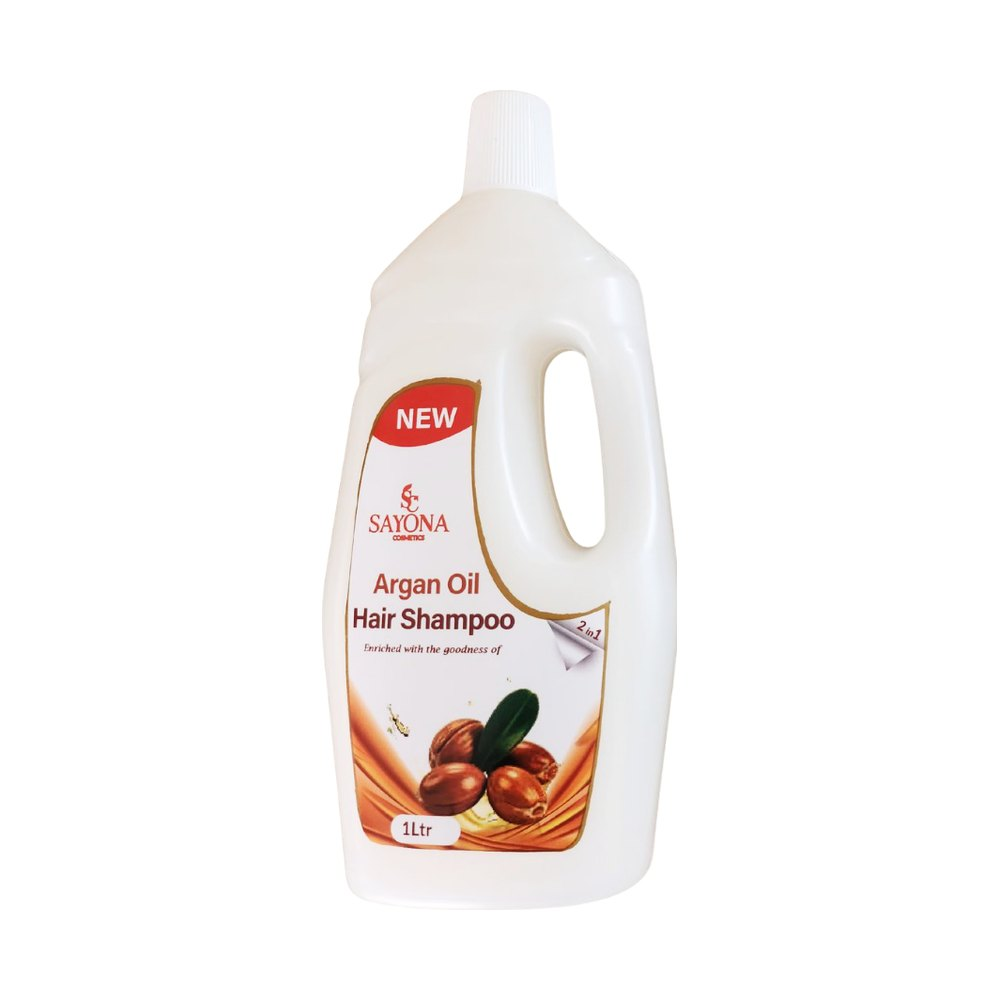
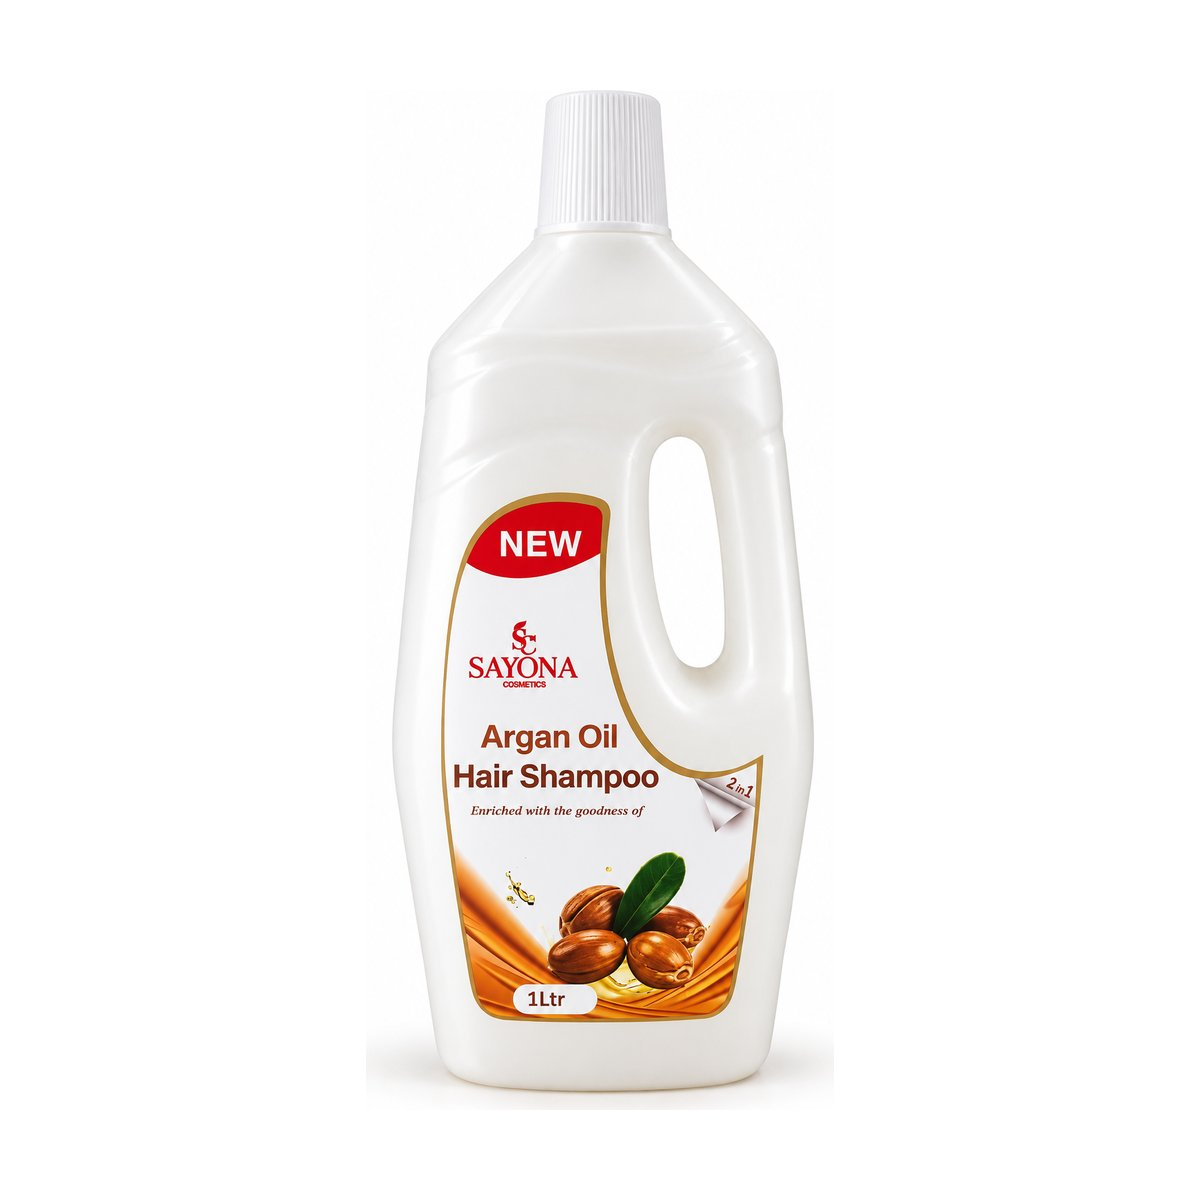
High-resolution packshots for every photographed size
- 23 new studio packshots (1200x1200) mapped to their exact sizes, incl. 5 ltr shampoo/conditioner, 60/120 ml leave-in, hair food, pomade and wax sizes
- Sharp "All sizes" range photos rebuilt from the new packshots (also used as fallback for unphotographed sizes)
- Kit photos and social share image refreshed

Claude-Session: https://claude.ai/code/session_012aUwVNySX9bc4vxdfX5zyF

Changed region(s): [[0.31, 0.062, 0.682, 0.93], [0.62, 0.31, 0.651, 0.341]]

diff --git a/src/data/products.js b/src/data/products.js
@@ -19,7 +19,7 @@ export const FALLBACK_PRODUCTS = [
       { size: "250 ml", price: 199, image: "/product-images/argan-shampoo-250ml.jpg" },
       { size: "500 ml", price: 349, image: "/product-images/argan-shampoo-500ml.jpg" },
       { size: "1 ltr", price: 449, image: "/product-images/argan-shampoo-1l.jpg" },
-      { size: "5 ltr", price: 899 }
+      { size: "5 ltr", price: 899, image: "/product-images/argan-shampoo-5l.jpg" }
     ]
   },
   {
@@ -42,9 +42,9 @@ export const FALLBACK_PRODUCTS = [
   },
   {
     id: "coconut-conditioner",
-    defaultSize: 1,
+    defaultSize: 2,
     groupImage: "/product-images/coconut-conditioner.jpg",
-    image: "/product-images/coconut-conditioner-500ml.jpg",
+    image: "/product-images/coconut-conditioner-1l.jpg",
     title: "Coconut Oil Hair Conditioner",
     category: "shampoo-conditioner",
     desc: "Sayona Hair Coconut Oil Moisture Boost Hair Conditioner — conditions to restore moisture. Formulated with Coconut Oil–derived fatty acids, this rich conditioner helps prevent breakage, restore elasticity, and deeply hydrate dry or damaged hair. Its creamy formula detangles, improves softness and manageability, and leaves hair silky, shiny, and healthier.",
@@ -54,8 +54,8 @@ export const FALLBACK_PRODUCTS = [
     sizes: [
       { size: "250 ml", price: 219, image: "/product-images/coconut-conditioner-250ml.jpg" },
       { size: "500 ml", price: 379, image: "/product-images/coconut-conditioner-500ml.jpg" },
-      { size: "1 ltr", price: 499 },
-      { size: "5 ltr", price: 1099 }
+      { size: "1 ltr", price: 499, image: "/product-images/coconut-conditioner-1l.jpg" },
+      { size: "5 ltr", price: 1099, image: "/product-images/coconut-conditioner-5l.jpg" }
     ]
   },
   {
@@ -71,7 +71,7 @@ export const FALLBACK_PRODUCTS = [
     tag: "ESSENTIAL",
     sizes: [
       { size: "60 ml", price: 149, image: "/product-images/olive-leave-in-60ml.jpg" },
-      { size: "120 ml", price: 249 },
+      { size: "120 ml", price: 249, image: "/product-images/olive-leave-in-120ml.jpg" },
       { size: "250 ml", price: 499 },
       { size: "500 ml", price: 699, image: "/product-images/olive-leave-in-500ml.jpg" },
       { size: "1 ltr", price: 999, image: "/product-images/olive-leave-in-1l.jpg" }
@@ -80,7 +80,8 @@ export const FALLBACK_PRODUCTS = [
   {
     id: "indian-hemp-pomade",
     defaultSize: 2,
-    image: "/product-images/indian-hemp-pomade.jpg",
+    groupImage: "/product-images/indian-hemp-pomade.jpg",
+    image: "/product-images/indian-hemp-pomade-250ml.jpg",
     title: "Indian Hemp Anti-Dandruff Pomade",
     category: "styling",
     desc: "Indian Hemp based anti-dandruff pomade — a Dry & Itchy Scalp Glossifier for sensitive and itchy scalps. Enriched with medicinal herbs, vitamins, Argan, Castor, Coconut and Tea Tree oils, with Eucalyptus and Peppermint essentials. Specially formulated to target the root cause of dandruff. Soothing & cooling formula with Mint Oil.",
@@ -89,16 +90,17 @@ export const FALLBACK_PRODUCTS = [
     tag: "HOT",
     sizes: [
       { size: "60 ml", price: 149 },
-      { size: "120 ml", price: 249 },
-      { size: "250 ml", price: 479 },
-      { size: "500 ml", price: 699 },
+      { size: "120 ml", price: 249, image: "/product-images/indian-hemp-pomade-120ml.jpg" },
+      { size: "250 ml", price: 479, image: "/product-images/indian-hemp-pomade-250ml.jpg" },
+      { size: "500 ml", price: 699, image: "/product-images/indian-hemp-pomade-500ml.jpg" },
       { size: "600 ml", price: 749 }
     ]
   },
   {
     id: "argan-hair-food",
     defaultSize: 2,
-    image: "/product-images/argan-hair-food.jpg",
+    groupImage: "/product-images/argan-hair-food.jpg",
+    image: "/product-images/argan-hair-food-250ml.jpg",
     title: "Argan Oil Hair Food",
     category: "styling",
     desc: "Nourish and strengthen. Argan oil is known for its ability to help hair restore, enhance, and grow. Its natural moisturizers help repair damage from blow-drying and flat ironing.",
@@ -106,17 +108,18 @@ export const FALLBACK_PRODUCTS = [
     usage: "Apply directly to hair shafts and scalp. Massage gently. Ideal for use before styling or as a daily moisture sealant.",
     tag: "DAILY WEAR",
     sizes: [
-      { size: "60 ml", price: 149 },
-      { size: "120 ml", price: 249 },
-      { size: "250 ml", price: 479 },
-      { size: "500 ml", price: 699 },
+      { size: "60 ml", price: 149, image: "/product-images/argan-hair-food-60ml.jpg" },
+      { size: "120 ml", price: 249, image: "/product-images/argan-hair-food-120ml.jpg" },
+      { size: "250 ml", price: 479, image: "/product-images/argan-hair-food-250ml.jpg" },
+      { size: "500 ml", price: 699, image: "/product-images/argan-hair-food-500ml.jpg" },
       { size: "600 ml", price: 749 }
     ]
   },
   {
     id: "dreadlock-wax",
     defaultSize: 2,
-    image: "/product-images/dreadlock-wax.jpg",
+    groupImage: "/product-images/dreadlock-wax.jpg",
+    image: "/product-images/dreadlock-wax-250ml.jpg",
     title: "Extra Hold Dreadlock Wax",
     category: "styling",
     desc: "Sayona Extra Hold Dreadlock Wax is a non-flaking formula crafted with precision. Our dreadlock gel wax is designed to meet the unique needs of those with dreadlocks.",
@@ -125,10 +128,10 @@ export const FALLBACK_PRODUCTS = [
     tag: "PROFESSIONAL",
     sizes: [
       { size: "60 ml", price: 249 },
-      { size: "120 ml", price: 399 },
-      { size: "250 ml", price: 749 },
+      { size: "120 ml", price: 399, image: "/product-images/dreadlock-wax-120ml.jpg" },
+      { size: "250 ml", price: 749, image: "/product-images/dreadlock-wax-250ml.jpg" },
       { size: "500 ml", price: 1099 },
-      { size: "600 ml", price: 1199 }
+      { size: "600 ml", price: 1199, image: "/product-images/dreadlock-wax-600ml.jpg" }
     ]
   },
   {
